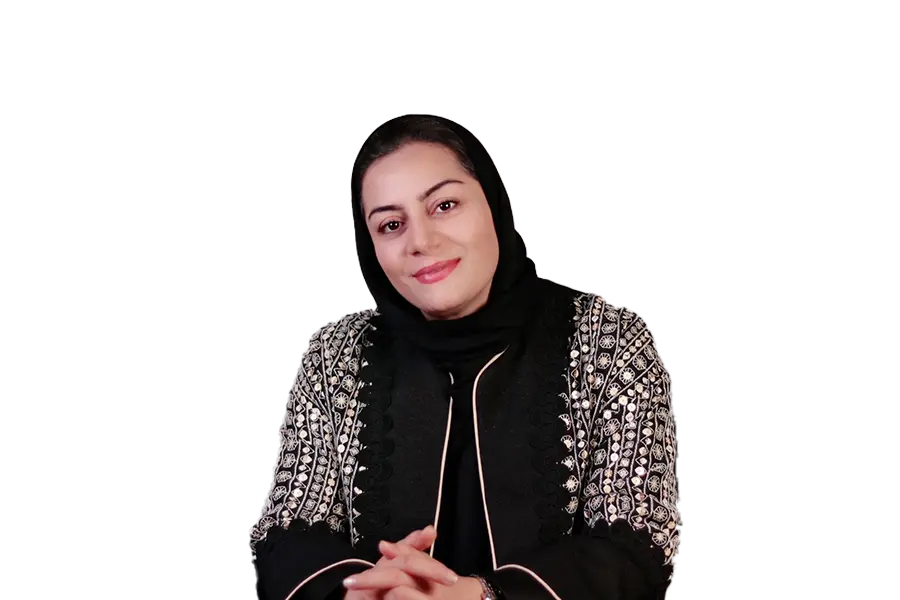
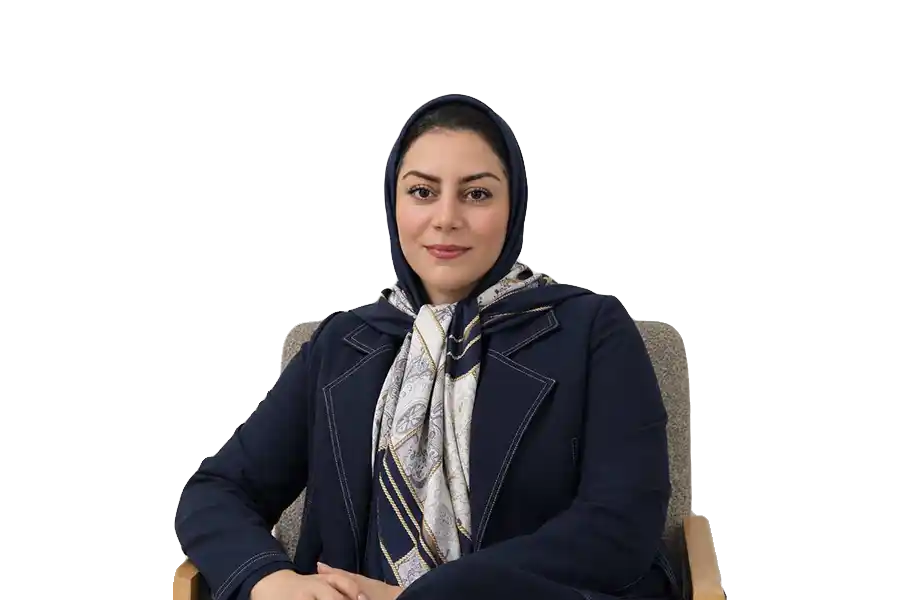
essays update 19 mehr

Changed region(s): [[0.1867, 0.15, 0.8089, 1.0]]

diff --git a/src/app/essays/essaysData.ts b/src/app/essays/essaysData.ts
@@ -2240,4 +2240,327 @@ export const essaysData: Essay[] = [
             },
         ],
     },
+    {
+        id: 19,
+        slug: "charkhe-penhan-e-taroz",
+        title: "چرخه پنهان تعارض: اختلالات جنسی چگونه تاروپود زندگی زناشویی و خانواده را متزلزل میکنند؟",
+        seoTitle: "تأثیر اختلالات جنسی بر روابط زناشویی؛ آتشی زیر خاکستر خانواده",
+        metaDescription:
+            "اختلالات جنسی درماننشده میتوانند صمیمیت زوجین، عزتنفس و آرامش خانواده را تحت تأثیر قرار دهند. با نشانهها و مسیرهای کمک تخصصی آشنا شوید.",
+        author: "یلدا عشقی",
+        publishedAt: "۸ مهرماه ۱۴۰۵",
+        category: "خانواده درمانی",
+        image: "/essays pics/charkhepenhantaaroz.webp",
+        lead: "تأثیر اختلالات جنسی بر روابط زناشویی؛ آتشی زیر خاکستر خانواده",
+        body: [
+            { type: "heading", id: "intro", level: 2, text: "مقدمه: اتاق خواب؛ دماسنج پنهان رابطه" },
+            {
+                type: "paragraph",
+                text: "در نگاه اول، خانواده بر پایههایی چون تعهد، احترام، مسئولیتپذیری مالی و والدگری مشترک بنا شده است. اما واقعیت این است که یکی از حساسترین و بنیادینترین ستونهای پایداری این سازه، در بستری رخ میدهد که کمتر درباره آن شفاف صحبت میشود: کیفیت رابطه جنسی و صمیمیت جسمانی.",
+            },
+            {
+                type: "paragraph",
+                text: "رابطه جنسی در ازدواج صرفاً یک واکنش فیزیولوژیک برای لذت یا باروری نیست؛ سکس زبان ناگفته «دلبستگی، احساس پذیرفتهشدن، امنیت روانی و تأیید ارزش فردی» است. زمانی که اختلالات جنسی (از بیمیلی و واژینیسموس گرفته تا زودانزالی یا اختلال نعوظ) بر این رابطه سایه میاندازند، اثرات آن در اتاق خواب محبوس نمیماند، بلکه به شکل زنجیرهای از تنشها، کل سلامت خانواده را تحت تأثیر قرار میدهد.",
+            },
+            {
+                type: "heading",
+                id: "hidden-anger",
+                level: 2,
+                text: "۱. از نارضایتی جنسی تا خشم پنهان: تبدیل «شرم» به «دعواهای روزمره»",
+            },
+            {
+                type: "paragraph",
+                text: "یکی از شایعترین اتفاقاتی که در پی اختلالات جنسی رخ میدهد، تغییر مسیر هیجانات است. هنگامی که یکی از زوجین یا هر دو با ناکامی جنسی مداوم روبهرو میشوند، دچار احساس شرم، سرخوردگی یا ترس از طردشدن میشوند. از آنجا که صحبت کردن درباره این ناکامی نیازمند آسیبپذیری بالا و شکستن تابوهای فرهنگی است، ذهن افراد مکانیسم دفاعی فعال میکند:",
+            },
+            {
+                type: "bullets",
+                items: [
+                    "مشاجره بر سر مسائل پیشپاافتاده: زوجی که در ارضای نیازهای صمیمانه خود ناکام ماندهاند، خشم فروخوردهشان را در قالب بحثهای فرساینده بر سر کارهای خانه، مسائل مالی، یا نحوه صحبت با خانواده همسر تخلیه میکنند.",
+                    "چرخه باطل تعقیب و گریز: یکی از طرفین از ترس مواجهه با احساس بیکفایتی عقب میکشد (اجتناب و سردی)، و طرف دیگر این عقبنشینی را حمل بر بیعلاقگی کرده و مدام او را بازخواست میکند؛ چرخهای فرسایشی که صمیمیت عاطفی را ذوب میکند.",
+                ],
+            },
+            { type: "heading", id: "self-esteem", level: 2, text: "۲. ضربه به عزتنفس و تصویر ذهنی از بدن" },
+            {
+                type: "paragraph",
+                text: "ناتوانی در ایجاد یک رابطه جنسی رضایتبخش، ضربهای عمیق به هویت فردی وارد میکند:",
+            },
+            {
+                type: "bullets",
+                items: [
+                    "در آقایان: توانایی جنسی اغلب ناخودآگاه با حس «کفایت مردانه و اقتدار فردی» گره خورده است. اختلالاتی نظیر زودانزالی یا اختلال در نعوظ، اضطراب عملکرد شدید و انزوای عاطفی در پی دارد.",
+                    "در بانوان: بیمیلی یا تجربههای دردناک (مانند واژینیسموس یا دیسپارونی)، احساس «نقص در هویت زنانه» یا عذابوجدان ناشی از ناکام گذاشتن شریک زندگی ایجاد میکند.",
+                ],
+            },
+            {
+                type: "paragraph",
+                text: "این ناامنیهای فردی رفتهرفته به شکل علائم جسمانی استرس (مانند دردهای تنشی، خستگی مزمن و بههمریختگی خواب) و در نهایت به افسردگی تبدیل میشوند.",
+            },
+            { type: "heading", id: "children-impact", level: 2, text: "۳. اثر سرریز بر کودکان: آسیبهایی که مستقیماً دیده نمیشوند" },
+            {
+                type: "paragraph",
+                text: "شاید تصور شود مسائل جنسی والدین ربطی به فرزندان ندارد؛ اما واقعیت روانی خانواده یک «سیستم یکپارچه» است:",
+            },
+            {
+                type: "bullets",
+                items: [
+                    "حس ششم کودکان نسبت به جو هیجانی: کودکان تفاوت بین آرامش واقعی خانه و «صلح مسلح» ناشی از سردی والدین را حس میکنند. اضطراب مزمن میان والدین، امنیت دلبستگی کودک را تهدید میکند.",
+                    "پدیده مثلثسازی (Triangulation): در موارد متعدد، والدی که از نظر عاطفی و جنسی احساس طردشدگی میکند، برای پر کردن این خلأ به شکلی ناسالم به فرزند خود نزدیک میشود؛ کودک در نقش «همدم هیجانی والد» قرار میگیرد و بار سنگینی فراتر از سنش را به دوش میکشد.",
+                    "کاهش کیفیت والدگری: فرسودگی ناشی از نارضایتی زناشویی، آستانه تحمل والدین را کاهش داده و تعامل با فرزندان را به رفتارهای تکانشی، تنبیه یا بیتفاوتی سوق میدهد.",
+                ],
+            },
+            { type: "heading", id: "relationship-crisis", level: 2, text: "۴. بنبست نهایی: طلاق عاطفی، بیوفایی و جدایی" },
+            {
+                type: "paragraph",
+                text: "نارضایتی جنسی درماننشده، مانند رخنه رطوبت در پی ساختمان است. آرام و بیصدا عمل میکند اما در درازمدت پایداری رابطه را از بین میبرد:",
+            },
+            {
+                type: "bullets",
+                items: [
+                    "طلاق عاطفی: زوجها به عنوان دو «هماتاقی» یا «شریک اداری» در یک خانه زندگی میکنند؛ بدون هیچ تماس پوستی، محبت لمسی یا نگاه معنادار.",
+                    "آسیبپذیری در برابر خیانت: نیاز انسان به حس جذابیت و دیده شدن از بین نمیرود؛ وقتی این نیاز در بستر امن ازدواج پاسخ داده نشود، فرد ناخودآگاه در جستوجوی تأیید و تجربه پیوند در بیرون از رابطه قرار میگیرد.",
+                ],
+            },
+            { type: "heading", id: "recovery", level: 2, text: "۵. مسیر بهبود: اختلال جنسی علامت است، نه پایان رابطه" },
+            {
+                type: "paragraph",
+                text: "مهمترین نکتهای که زوجین باید بدانند این است که اختلالات جنسی، حکم قطعی بر بیعلاقگی یا ناسازگاری زوجین نیستند. بخش عمدهای از این اختلالات، هم ریشه بیولوژیک و هم ریشه روانشناختی دارند و کاملاً درمانپذیرند:",
+            },
+            {
+                type: "bullets",
+                items: [
+                    "تابوزدایی و گفتوگوی امن: به جای سرزنش یکدیگر، این اختلال را به عنوان یک «چالش مشترک» ببینید که باید دونفره با آن روبهرو شوید.",
+                    "بررسی ابعاد جسمی-پزشکی: مشاوره با پزشکان متخصص (اورولوژیست یا متخصص زنان) برای رد علل هورمونی، عروقی یا ساختاری.",
+                    "مراجعه به سکستراپیست و زوجدرمانگر: ریشهیابی باورهای ناکارآمد، اضطرابهای عملکردی، تجارب آسیبزای گذشته و تمرین گامبهگام برای بازسازی صمیمیت فیزیکی به دور از فشار و اضطراب.",
+                ],
+            },
+            { type: "heading", id: "conclusion", level: 2, text: "نتیجهگیری و فراخوان برای اقدام" },
+            {
+                type: "paragraph",
+                text: "سلامت جنسی و رضایت زناشویی لوکس نیستند؛ آنها سوخت موتور صمیمیت و ثبات خانوادهاند. به تعویق انداختن درمان به دلیل شرم یا امید به اینکه «خودش درست میشود»، هزینههای عاطفی سنگینی به دنبال دارد.",
+            },
+            {
+                type: "paragraph",
+                text: "آیا احساس میکنید دیوار سردی در رابطه شما شکل گرفته است؟ درمانگران و سکستراپیستهای کلینیک آمادهاند تا در فضایی کاملاً محرمانه، تخصصی و به دور از قضاوت، در بازسازی صمیمیت و بازگرداندن گرما به رابطهتان در کنار شما باشند. برای دریافت نوبت مشاوره با ما در ارتباط باشید.",
+            },
+        ],
+    },
+    {
+        id: 20,
+        slug: "koodak-sedaye-penhan-khane",
+        title: "کودک؛ صدای پنهان خانه: چرا رفتارهای ناسازگار فرزند، علامتی از بحران خانواده است؟",
+        seoTitle: "کودک برچسبخورده؛ وقتی مشکل از سیستم است، نه از بچه!",
+        metaDescription:
+            "رفتار ناسازگار کودک گاهی بازتاب تنشهای حلنشده خانواده است. با نگاه سیستمی به نشانههای کودک و نقش خانوادهدرمانی در بهبود آشنا شوید.",
+        author: "یلدا عشقی",
+        publishedAt: "۷ مهرماه ۱۴۰۵",
+        category: "خانواده درمانی",
+        image: "/essays pics/koodaksedayepenhankhane.webp",
+        lead: "گاهی رفتارهای دشوار کودک، صدای پنهان تنشهایی است که در فضای خانواده مجال بیان پیدا نکردهاند.",
+        body: [
+            { type: "heading", id: "intro", level: 2, text: "مقدمه: مادری نگران، کودکی با برچسب و رازی پنهان" },
+            {
+                type: "paragraph",
+                text: "«آقای/خانم دکتر، این بچه را درستش کنید! پرخاشگر شده، ناخن میجود، شبادراری دارد و اصلاً تمرکز ندارد.»",
+            },
+            {
+                type: "paragraph",
+                text: "این جملهای است که بسیاری از درمانگران کودک در همان جلسات اول از زبان والدین مستأصل میشنوند. والدینی که تمام توجه، نگرانی و هزینهشان را متمرکز بر «تعمیر» فرزندشان کردهاند، با این فرض نانوشته که: «ما خوبیم، ولی این بچه مشکل دارد.»",
+            },
+            {
+                type: "paragraph",
+                text: "اما در رویکردهای نوین خانوادهدرمانی و روانپویشی، یک واقعیت بنیادین وجود دارد: کودکان، مستقل از اتمسفر روانی خانواده رشد نمیکنند. در بسیاری از مواقع، اختلال یا رفتار پرخاشگرانه و ناسازگار کودک، یک «بیماری فردی» نیست، بلکه واکنشی سالم به یک محیط ناسالم است.",
+            },
+            { type: "heading", id: "identified-patient", level: 2, text: "۱. مفهوم «بیمار معرفیشده» (Identified Patient) چیست؟" },
+            {
+                type: "paragraph",
+                text: "در نظریه سیستمهای خانواده، اصطلاحی داریم به نام «فرد علامتدار» یا «بیمار معرفیشده» (IP). خانواده مانند بدن انسان است؛ وقتی در بخشی از این ارگانیسم تنش، عفونت یا ناکارآمدی وجود داشته باشد، نشانه آن ممکن است در نقطهای دیگر بیرون بزند.",
+            },
+            {
+                type: "paragraph",
+                text: "در یک منظومه خانوادگی، کودک به دلیل ظرفیت دفاعی و روانی کمتر در برابر استرس، وابستگی عمیق بیولوژیک و عاطفی به بقای خانواده، و حساسیت شهودی بسیار بالا به اضطرابهای کلامی و غیرکلامی والدین، ناخودآگاه تبدیل به «سخنگوی اضطرابهای ناگفته خانواده» میشود. او با رفتار یا نشانههای جسمی خود داد میزند: «اینجا چیزی سر جایش نیست!»",
+            },
+            { type: "heading", id: "what-behavior-conceals", level: 2, text: "۲. رفتارهای کودک چه چیزی را پنهان یا منحرف میکنند؟" },
+            {
+                type: "paragraph",
+                text: "شاید بپرسید یک رفتار مرضی در کودک چطور به سیستم خانواده کمک میکند؟ در ناخودآگاه سیستم، علامت کودک نقشهای زیر را بازی میکند:",
+            },
+            {
+                type: "bullets",
+                items: [
+                    "منحرف کردن توجه از طلاق و فروپاشی زناشویی (مکانیسم چسبندگی): وقتی زن و شوهر در آستانه جدایی هستند یا دیوار ستبری از قهر بین آنها کشیده شده، بدرفتاری یا بیماری ناگهانی کودک (مانند فوبیای مدرسه یا افت شدید تحصیلی)، توجه هر دو را به یک «دشمن بیرونی» مشترک جلب میکند. کودک ناخودآگاه بیماری تولید میکند تا والدین را کنار هم نگه دارد.",
+                    "سپر بلا شدن (Scapegoating): پدر یا مادری که ناکامی شغلی، ترومای درماننشده کودکی، یا افسردگی عمیق دارند، تمام خشم و اضطراب را روی رفتارهای کودک فرافکنی میکنند: «اگر این بچه اینقدر لجباز نبود، زندگی ما بهشت بود.»",
+                    "درونیسازی خشمهای سرکوبشده: در خانههایی که خشم ممنوع است، اختلاف نظر تابوست، یا یکی از والدین استبدادی و کنترلگر عمل میکند، کودک این تعارضات فروخورده را از طریق شبادراری، تیکهای عصبی، رفتارهای وسواسی، یا کندن مو بروز میدهد (تظاهرات تنروانی).",
+                ],
+            },
+            { type: "heading", id: "system-vs-disorder", level: 2, text: "۳. تفاوت «اختلال واقعی کودک» با «علامتدار بودن سیستم»" },
+            {
+                type: "paragraph",
+                text: "بدیهی است که برخی اختلالات رشدی-عصبی (مانند طیف اتیسم یا ADHD با زمینه ژنتیکی) نیازمند مداخلات مستقیم، دارودرمانی و توانبخشی فردی هستند. اما حتی در چنین شرایطی نیز محیط متشنج یا والدگری ناکارآمد، شدت علائم را چند برابر میکند. اگر در یک خانه پر از تنش، کودکی ناگهان دچار اضطراب جدایی، افت تحصیلی، یا نافرمانی شدید میشود، نگاه کردن به او به عنوان یک «بیمار مستقل»، آدرس غلط رفتن است.",
+            },
+            { type: "heading", id: "change-perspective", level: 2, text: "۴. تغییر زاویه دید: از «کودک بیمار» تا «سیستم آسیبدیده»" },
+            {
+                type: "paragraph",
+                text: "اگر احساس میکنید فرزندتان دچار افت عملکرد یا ناهنجاری رفتاری شده، به جای پرسیدن این سؤال که «چطور فرزندم را تغییر دهم یا اصلاح کنم؟» این سؤالات شجاعانه را از خود بپرسید:",
+            },
+            {
+                type: "bullets",
+                items: [
+                    "اتمسفر هیجانی خانه ما در ماههای اخیر چگونه بوده است؟",
+                    "رابطه عاطفی من و همسرم چقدر صمیمی، امن و بدون طعنه است؟",
+                    "آیا اضطرابهای حلنشده و کارهای شخصی خودمان را روی کودک بارگذاری نمیکنیم؟",
+                ],
+            },
+            { type: "heading", id: "family-therapy", level: 2, text: "۵. مسیر درمان چیست؟ چرا خانوادهدرمانی ضروری است؟" },
+            {
+                type: "paragraph",
+                text: "آوردن کودک به تنهایی به اتاق درمان، مثل این است که یک ماهی بیمار را از آکواریوم کثیف بیرون بیاوریم، مداوا کنیم و دوباره به همان آب آلوده برگردانیم!",
+            },
+            {
+                type: "bullets",
+                items: [
+                    "درمان همزمان والدین: در رواندرمانی تحلیلی و سیستمی، کار روی «زوج» و الگوهای فرزندپروری، پای ثابت درمان کودک است.",
+                    "احیای مرزهای والدگری: والدین باید رهبری ایمن و مقتدرانه خانه را پس بگیرند تا کودک از جایگاه سنگینِ «پایهگذار تعادل خانه» خلاص شود.",
+                    "آرامش کودک در سایه آرامش رابطه: تحقیقات مکرر نشان داده است که با بهبود تعارضات زناشویی و افزایش امنیت هیجانی در خانه، بیش از نیمی از علائم اضطرابی و رفتاری کودکان بدون هیچ مداخله مستقیمی خودبهخود محو میشوند.",
+                ],
+            },
+            { type: "heading", id: "conclusion", level: 2, text: "نتیجهگیری و فراخوان برای اقدام" },
+            {
+                type: "paragraph",
+                text: "کودکان، آینههای فوقالعاده شفاف اما شکننده رفتارهای ما هستند. اگر تصویری کدر یا آشفته در رفتارهای فرزندتان میبینید، سنگ را به سمت آینه پرتاب نکنید؛ به زاویه تابش نور و فضایی که آینه در آن قرار گرفته نگاه کنید.",
+            },
+            {
+                type: "paragraph",
+                text: "آیا احساس میکنید رفتارهای ناآرام فرزندتان بازتابی از روزهای سخت یا تعارضات حلنشده خانه است؟ در کلینیک، ما به جای برچسب زدن به فرزند شما، به تصویر بزرگتر یعنی سلامت کل خانواده نگاه میکنیم. برای دریافت مشاوره خانواده، والدگری و زوجدرمانی، با متخصصان ما در تماس باشید تا در فضایی تخصصی، آرامش را دوباره به خانه بازگردانیم.",
+            },
+        ],
+    },
+    {
+        id: 21,
+        slug: "rahnamaye-gerayesh-haye-ravanshenasi",
+        title: "راهنمای جامع گرایشهای روانشناسی در مقاطع لیسانس، ارشد و دکتری در ایران",
+        seoTitle: "گرایشهای روانشناسی در کارشناسی، ارشد و دکتری در ایران | راهنمای انتخاب",
+        metaDescription:
+            "با گرایشهای روانشناسی در مقاطع کارشناسی، ارشد و دکتری در ایران، تفاوت مسیرهای وزارت علوم و بهداشت و نکات مهم بازار کار و پروانه اشتغال آشنا شوید.",
+        author: "یلدا عشقی",
+        publishedAt: "۱۸ مهرماه ۱۴۰۵",
+        category: "شغلی تحصیلی",
+        image: "/essays pics/rahnamayeravanshenasi.webp",
+        lead: "نقشه راه گرایشهای روانشناسی در ایران؛ از کارشناسی تا دکتری، بازار کار و مسیر حرفهای.",
+        body: [
+            {
+                type: "paragraph",
+                text: "ورود به دنیای روانشناسی برای بسیاری از افراد با انگیزه «شناخت بهتر انسانها و کمک به درمان رنجهای روانی» آغاز میشود. اما روانشناسی مانند یک درخت تنومند با شاخههای بسیار متنوع است؛ از رواندرمانی فردی و کار با اختلالات گرفته تا پژوهشهای مغزی، مسائل سازمانی و یادگیری کودکان.",
+            },
+            {
+                type: "paragraph",
+                text: "یکی از چالشهای بزرگ داوطلبان کنکور و دانشجویان این رشته، عدم شناخت دقیق تفاوت گرایشها در مقاطع مختلف و تأثیر مستقیم آن بر بازار کار و شرایط دریافت شماره نظام و پروانه اشتغال تخصصی است. در این مقاله تخصصی از دپارتمان هدایت تحصیلی و شغلی روزنه، نقشه راه کامل گرایشهای روانشناسی از مقطع کارشناسی تا دکتری را در ایران بررسی میکنیم.",
+            },
+            { type: "heading", id: "bachelors", level: 2, text: "۱. مقطع کارشناسی (لیسانس): تجمیع گرایشها و شروع مسیر" },
+            {
+                type: "paragraph",
+                text: "در گذشته، مقطع کارشناسی شامل گرایشهای تفکیکشدهای مثل بالینی، عمومی و استثنایی بود. اما بر اساس اصلاحات وزارت علوم، در حال حاضر دوره لیسانس به صورت «روانشناسی محض (عمومی/جامع)» ارائه میشود.",
+            },
+            {
+                type: "bullets",
+                items: [
+                    "طول دوره: ۴ سال (۸ ترم).",
+                    "ماهیت دوره: آشنایی بنیادین با مفاهیم پایهای روانشناسی از جمله فیزیولوژی اعصاب، روانشناسی رشد، روانشناسی آسیبشناسی (مرضی)، آمار و روش تحقیق، روانشناسی تجربی و مکاتب روانشناسی.",
+                    "آیا لیسانس تفکیک گرایش دارد؟ خیر؛ گرایشها در مقطع ارشد آغاز میشوند. (البته رشتههایی مانند مشاوره و راهنمایی یا علوم تربیتی به عنوان رشتههای مستقل در کنکور کارشناسی تعریف شدهاند، اما هسته اصلی روانشناسی تجمیع شده است.)",
+                    "بازار کار مقطع لیسانس: فارغالتحصیل این مقطع امکان تأسیس مطب یا دریافت پروانه اشتغال تخصصی ندارد؛ اما میتواند به عنوان دستیار پژوهشی، مربی مهارتهای زندگی در مهدکودکها و مراکز توانبخشی، کارشناس روابط عمومی یا منابع انسانی در شرکتها فعالیت کند.",
+                ],
+            },
+            { type: "heading", id: "masters", level: 2, text: "۲. مقطع کارشناسی ارشد: دوراهی بزرگ وزارت علوم و وزارت بهداشت" },
+            {
+                type: "paragraph",
+                text: "نقطه عطف تصمیمگیری شغلی هر روانشناس در دوره کارشناسی ارشد شکل میگیرد. در ایران، پذیرش ارشد از طریق دو مجرای جداگانه انجام میشود:",
+            },
+            { type: "heading", id: "health-ministry", level: 3, text: "الف) گرایشهای کارشناسی ارشد در وزارت بهداشت" },
+            {
+                type: "paragraph",
+                text: "این آزمون ماهیت درمانگاهی، بالینی و بیمارستانی پررنگتری دارد و پذیرش در آن محدودتر و رقابتیتر است:",
+            },
+            {
+                type: "bullets",
+                items: [
+                    "روانشناسی بالینی (وزارت بهداشت): تمرکز اصلی بر آسیبشناسی، ارزیابی، تشخیص و رواندرمانی اختلالات روانپزشکی با ساعات کارآموزی عملی طولانی در بیمارستانهای روانپزشکی.",
+                    "روانشناسی سلامت: بررسی نقش عوامل روانی-رفتاری بر سلامت جسمانی، مدیریت بیماریهای مزمن (مانند سرطان، دیابت، بیماریهای قلبی) و ارتقای سبک زندگی.",
+                    "روانشناسی بالینی کودک و نوجوان: مداخله تخصصی در اختلالات عصبی-تحولی و رفتاری کودکان و نوجوانان (مانند ADHD، اتیسم، اضطراب جدایی).",
+                ],
+            },
+            { type: "heading", id: "science-ministry", level: 3, text: "ب) گرایشهای کارشناسی ارشد در وزارت علوم" },
+            {
+                type: "paragraph",
+                text: "وزارت علوم تنوع رشتهای گستردهتری دارد:",
+            },
+            {
+                type: "bullets",
+                items: [
+                    "روانشناسی بالینی: محبوبترین گرایش؛ متمرکز بر سنجش، مصاحبه تشخیصی و مداخله در اختلالات روانی (با تأکید بیشتر بر ابعاد پژوهشی و تحلیلی در مقایسه با دوره بهداشت).",
+                    "روانشناسی بالینی کودک و نوجوان: ارزیابی و درمان تخصصی مسائل روانی گروه سنی کودک و نوجوان.",
+                    "روانشناسی عمومی: گرایشی آکادمیک و جامع؛ متمرکز بر فرآیندهای بنیادین شناخت، هیجان، ادراک، حافظه و روانسنجی. مسیر ایدهآل برای پژوهش و تدریس.",
+                    "روانشناسی و آموزش کودکان استثنایی: مداخله، آموزش و توانبخشی کودکان با نیازهای ویژه (کمتوان ذهنی، آسیبهای بینایی/شنوایی، اختلالات یادگیری).",
+                    "روانشناسی صنعتی و سازمانی: بررسی رفتار انسانی در محیط کار، استخدام، انگیزش کارکنان، رهبری سازمانی و فرهنگ کار.",
+                    "روانشناسی شناختی: پیوند میان عصبپژوهی، علوم شناختی و روانشناسی؛ بررسی مدلهای حافظه، توجه و بازتوانی شناختی.",
+                    "روانشناسی خانوادهدرمانی / روانشناسی تربیتی: تمرکز بر پویاییهای سیستمی خانواده و زوج، یا فرآیندهای یادگیری و آموزش در نظامهای آموزشی.",
+                ],
+            },
+            { type: "heading", id: "phd", level: 2, text: "۳. مقطع دکتری تخصصی (Ph.D): مرجعیت علمی و تخصصی" },
+            {
+                type: "paragraph",
+                text: "دوره دکتری دورهای برای عمیقتر شدن در حوزه پژوهش، تولید شواهد تجربی و دستیابی به بالاترین مراتب بالینی و هیئت علمی است.",
+            },
+            { type: "heading", id: "health-phd", level: 3, text: "دکتری در وزارت بهداشت" },
+            {
+                type: "bullets",
+                items: ["روانشناسی بالینی", "روانشناسی سلامت", "روانشناسی نظامی (در برخی دورهها)"],
+            },
+            { type: "heading", id: "science-phd", level: 3, text: "دکتری در وزارت علوم" },
+            {
+                type: "bullets",
+                items: [
+                    "روانشناسی (به صورت جامع و متمرکز بر پژوهش)",
+                    "روانشناسی بالینی",
+                    "روانشناسی سلامت",
+                    "روانشناسی و آموزش کودکان استثنایی",
+                    "روانشناسی تربیتی",
+                    "روانشناسی شناختی",
+                ],
+            },
+            { type: "heading", id: "license", level: 2, text: "۴. قوانین سازمان نظام روانشناسی و شرایط دریافت پروانه اشتغال" },
+            {
+                type: "paragraph",
+                text: "یکی از حیاتیترین نکاتی که دانشجویان باید بدانند، ضوابط سازمان نظام روانشناسی و مشاوره ایران (PCOIR) است:",
+            },
+            {
+                type: "bullets",
+                items: [
+                    "برای دریافت پروانه فعالیت تخصصی (حق تأسیس کلینیک یا ارائه درمان فردی با شماره نظام)، تطابق مدارک تحصیلی اهمیت دارد. بر اساس مصوبات و آییننامهها، متقاضی باید حداقل در دو مقطع تحصیلی (کارشناسی و کارشناسی ارشد یا ارشد و دکتری) دارای مدرک در رشتههای همگن روانشناسی یا مشاوره باشد.",
+                    "فارغالتحصیلانی که لیسانس غیرمرتبط دارند، با ورود به کارشناسی ارشد باید بررسی کنند که آیا برای اخذ پروانه نیاز به سپری کردن مقطع دکتری یا گذراندن ساعات دورههای نظارتشده (سوپرویژن) تکمیلی دارند یا خیر.",
+                    "گرایشهایی مانند روانشناسی صنعتی و سازمانی یا روانشناسی شناختی محض بیشتر در زمینه ارزیابیهای شرکتی، طراحی آزمونها و پژوهش فعال هستند و بازار هدف متفاوتی نسبت به کلینیکهای درمان فردی دارند.",
+                ],
+            },
+            { type: "heading", id: "choosing", level: 2, text: "جمعبندی: کدام گرایش مناسب شماست؟" },
+            {
+                type: "paragraph",
+                text: "انتخاب گرایش روانشناسی صرفاً بر اساس رتبه کنکور یک خطای راهبردی است. برای انتخاب درست باید به چند مؤلفه اصلی توجه کنید:",
+            },
+            {
+                type: "bullets",
+                items: [
+                    "علاقهمندی به محیط کار: کار در بیمارستان و کلینیک بالینی، کار در محیطهای صنعتی و شرکتی، یا تدریس و تحقیق در دانشگاه؟",
+                    "تیپ شخصیتی و ظرفیت تابآوری هیجانی: آیا توانایی رویارویی با بحرانهای روانپزشکی و رنج شدید مراجعان را دارید؟",
+                    "اهداف مهاجرت تحصیلی و پژوهشی: رشتههایی مثل روانشناسی شناختی و عصبروانشناسی فرصتهای پژوهشی گستردهتری در خارج از کشور فراهم میکنند، در حالی که روانشناسی بالینی وابسته به زبان، فرهنگ و الزامات بومی نظامهای درمانی است.",
+                ],
+            },
+            { type: "heading", id: "career-path", level: 2, text: "مسیر حرفهایتان را آگاهانه بسازید" },
+            {
+                type: "paragraph",
+                text: "اگر در آستانه انتخاب رشته کنکور کارشناسی، ارشد یا دکتری هستید و میان گرایشهای بالینی، سلامت، عمومی یا شناختی تردید دارید، مشاوران دپارتمان هدایت شغلی و تحصیلی کلینیک روزنه در کنار شما هستند تا بر اساس ویژگیهای شخصیتی، ارزشهای شغلی و واقعیتهای بازار کار ایران، بهترین تصمیم را اتخاذ کنید.",
+            },
+            {
+                type: "paragraph",
+                text: "جهت رزرو جلسه مشاوره تخصصی انتخاب رشته با کارشناسان روزنه در ارتباط باشید.",
+            },
+        ],
+    },
 ];
